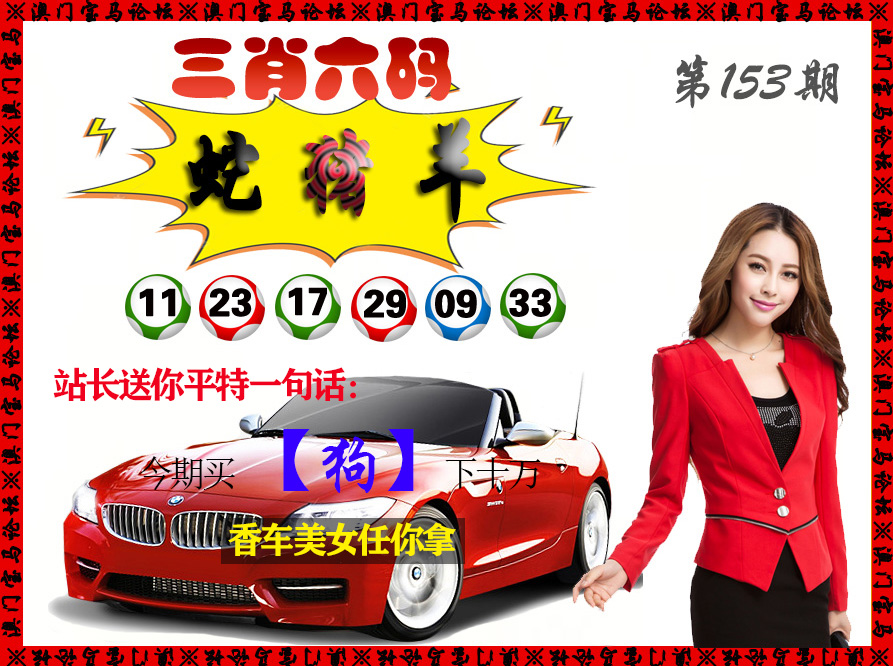
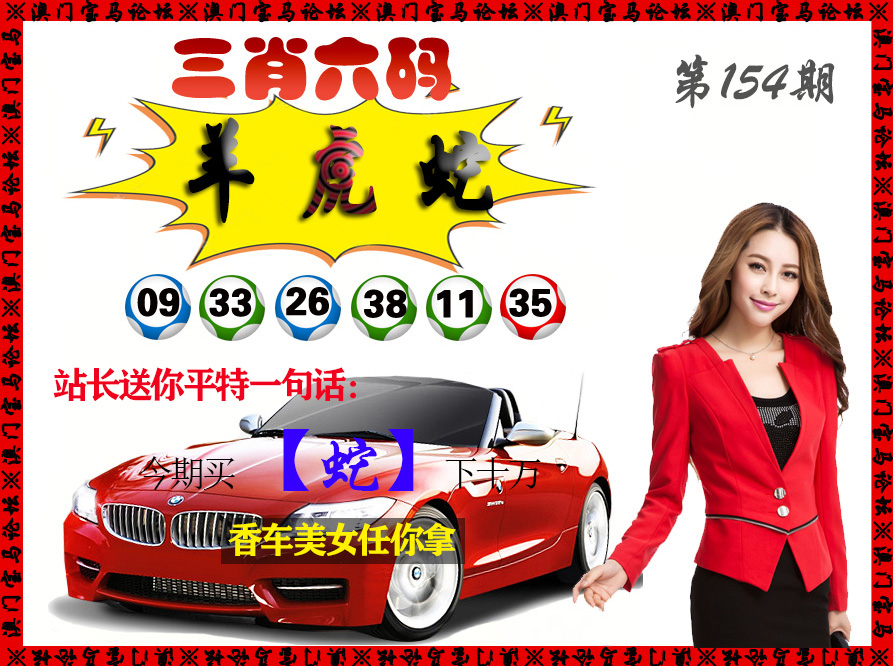
Update:  2023.06.03 03:26:33

diff --git a/Script/Src/xjw/管家婆解析.js b/Script/Src/xjw/管家婆解析.js
@@ -25,8 +25,8 @@ document.writeln("	");
 document.writeln("		<p align=\'left\'>");
 document.writeln("	");
 document.writeln("		<span><font size=\'4\'>154期:<font color=\'#008000\'>【精解管家婆一句话】</font><font color=\'#FF0000\'>开？00</font><font color=\'#008000\'><br>");
-document.writeln("		</font><font color=\'#6600CC\'>【更新中】【更新中】<br></font></font>");
-document.writeln("		<font color=\'#0000FF\' size=\'4\'>解：更新中。综合取肖</font><font color=\'#FF0000\' size=\'4\'>更新中</font><font color=\'#0000FF\' size=\'4\'>   本期平特更新中。<br>本期取码：更新中</td></tr>");
+document.writeln("		</font><font color=\'#6600CC\'>【三人四六出灵码】【杯弓蛇影】<br></font></font>");
+document.writeln("		<font color=\'#0000FF\' size=\'4\'>解：三人四六出灵码解料：三牛四鼠六狗34马36龙43鸡。解肖：牛鼠狗马龙鸡。综合取肖</font><font color=\'#FF0000\' size=\'4\'>牛鼠狗马龙鸡</font><font color=\'#0000FF\' size=\'4\'>   本期平特蛇。<br>本期取码：15.27.16.28.18.30.22.34.36.48.19.43</td></tr>");
 document.writeln("		");
 
 document.writeln("	<tr>");

diff --git a/Script/Src/xjw/杀两肖图.js b/Script/Src/xjw/杀两肖图.js
@@ -47,8 +47,8 @@ document.writeln("					<td height=\'40\' style=\'box-sizing: border-box;\'>");
 document.writeln("			<p align=\'center\' style=\'box-sizing: border-box; padding: 0px; margin: 0px;\'>");
 document.writeln("			<font size=\'4\' style=\'margin: 0px; padding: 0px;\'>");
 document.writeln("			154期玄机网禁两肖<font color=\'#FF0000\'>【猪鸡】</font>特开<font color=\'#0000FF\'>？00</font>准<br>");
-document.writeln("			154期澳门杀两肖图<font color=\'#FF0000\'>【更新】</font>特开<font color=\'#0000FF\'>？00</font>准<br>");
-document.writeln("			154期澳门图库禁肖<font color=\'#FF0000\'>【更新】</font>特开<font color=\'#0000FF\'>？00</font>准</font></font></p></td>");
+document.writeln("			154期澳门杀两肖图<font color=\'#FF0000\'>【猪龙】</font>特开<font color=\'#0000FF\'>？00</font>准<br>");
+document.writeln("			154期澳门图库禁肖<font color=\'#FF0000\'>【兔鼠】</font>特开<font color=\'#0000FF\'>？00</font>准</font></font></p></td>");
 document.writeln("		</tr>");
 document.writeln("<!--推广-->");
 document.writeln("				<tr style=\'box-sizing: border-box;\'>");

diff --git a/Script/Src/xjw/传真九肖.js b/Script/Src/xjw/传真九肖.js
@@ -26,9 +26,9 @@ document.writeln("	");
 document.writeln("		<p align=\'left\'>");
 document.writeln("	");
 document.writeln("		<span><font size=\'4\'>154期:<font color=\'#008000\'>【澳门传真特围生肖】</font><font color=\'#FF0000\'>开？00</font><font color=\'#008000\'><br>");
-document.writeln("		</font><font color=\'#0000FF\'>更新中。<br>");
-document.writeln("		【更新中】</font><br><b><font color=\'#FF0000\'>");
-document.writeln("				特围生肖:更新中<br>主特六肖：更新中</font></b></font></td></tr>");
+document.writeln("		</font><font color=\'#0000FF\'>今期得以歸家去，三七回头四观临。双数出特很意外，有时六合皆酒戏。花红柳绿任君选，心水玄机六与七，六合開出百花地，工夫不负有心人。<br>");
+document.writeln("		【摇首顿足】</font><br><b><font color=\'#FF0000\'>");
+document.writeln("				特围生肖:狗龙马兔猪猴蛇虎<br>主特六肖：狗龙马兔猪猴</font></b></font></td></tr>");
 document.writeln("");
 
 document.writeln("	<tr>");
